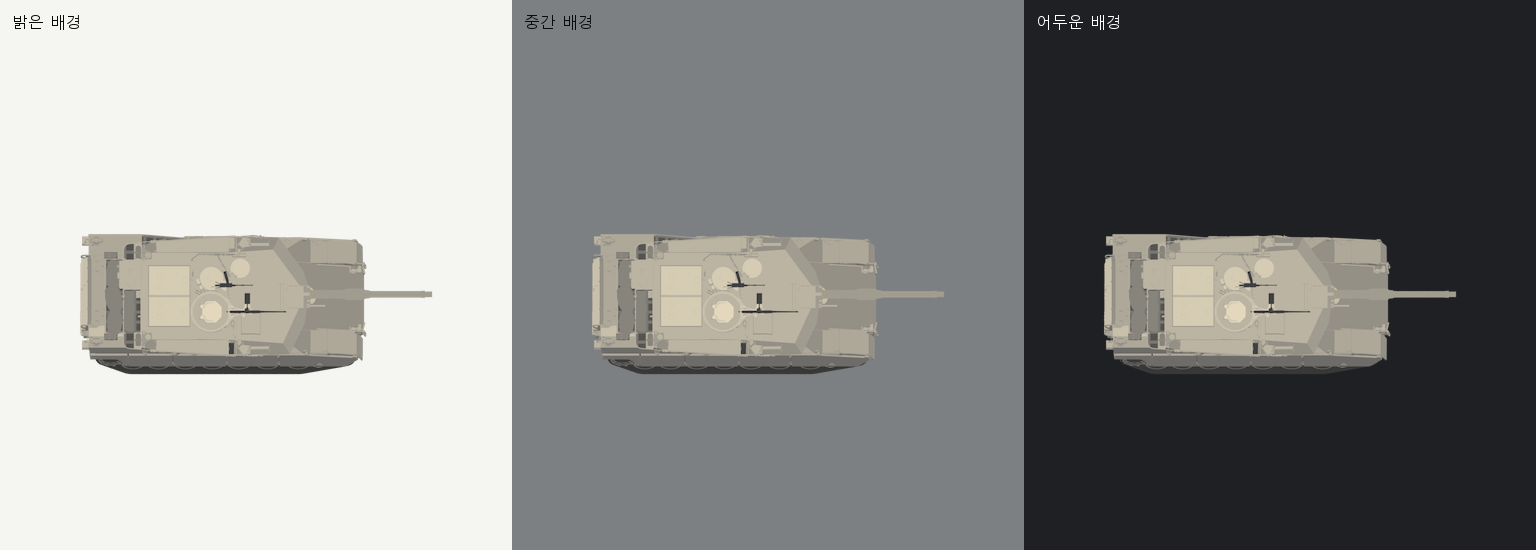
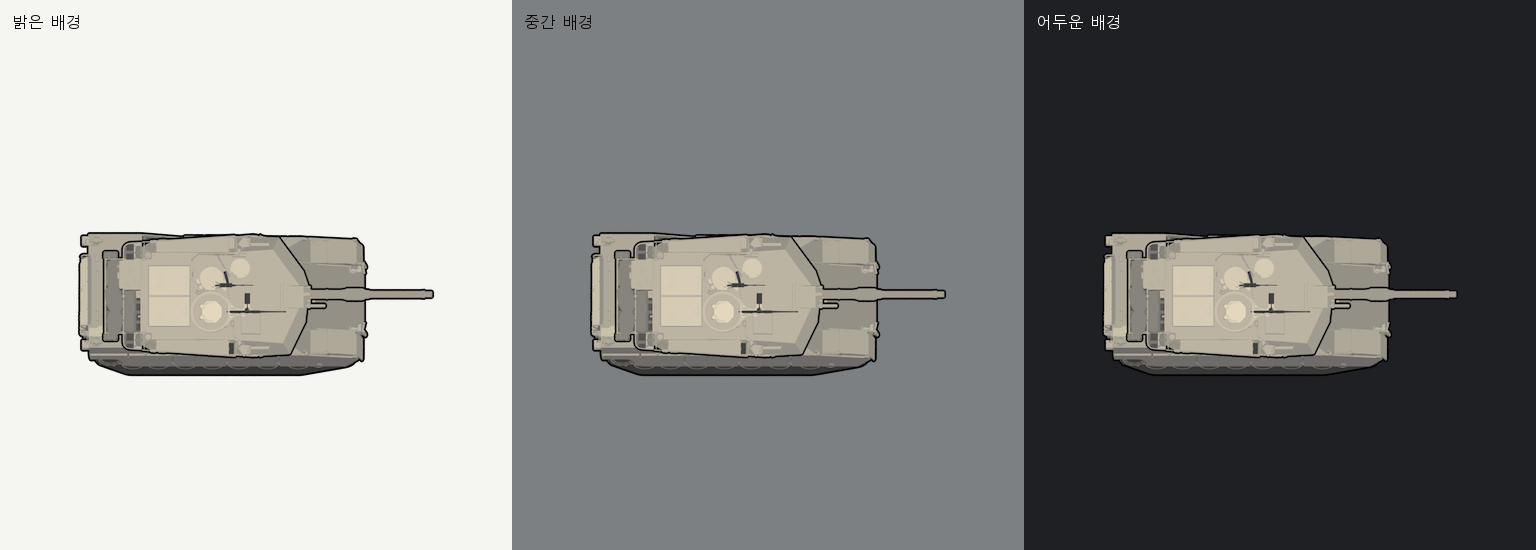
차체와 포탑에 검은 윤곽선을 각각 적용한 M1A2 검수 이미지 추가

diff --git a/ArtSource/VehiclePipeline/outline_review.py b/ArtSource/VehiclePipeline/outline_review.py
@@ -1,0 +1,107 @@
+"""Black per-layer silhouette outlines, applied before hull/turret composition.
+
+This is deterministic review postprocessing. Original model and render layers stay
+unchanged; outline width is defined at 256px and scaled with output resolution.
+"""
+from pathlib import Path
+import argparse
+import math
+import numpy as np
+from PIL import Image, ImageDraw
+
+from pipeline import read_json, write_json, sha256
+from images import composite_linear, resize_linear, check_margin, font
+
+
+def black_outline(source, radius):
+    image = source.convert("RGBA")
+    rgba = np.asarray(image)
+    alpha = rgba[:, :, 3]
+    padding = math.ceil(radius)
+    padded = np.pad(alpha, padding)
+    grown = np.zeros_like(alpha)
+    for dy in range(-padding, padding+1):
+        for dx in range(-padding, padding+1):
+            if dx*dx+dy*dy <= radius*radius:
+                np.maximum(grown, padded[padding+dy:padding+dy+image.height,
+                                         padding+dx:padding+dx+image.width], out=grown)
+    backdrop = np.zeros_like(rgba)
+    backdrop[:, :, 3] = grown
+    result = composite_linear(Image.fromarray(backdrop), image, (0, 0))
+    pixels = np.asarray(result)
+    # The stroke cannot repaint opaque source pixels or introduce colored halos.
+    assert np.array_equal(pixels[alpha == 255], rgba[alpha == 255])
+    assert not pixels[(alpha == 0) & (grown > 0), :3].any()
+    assert np.all(pixels[:, :, 3] >= alpha)
+    return result
+
+
+def build_review(profile_path, width_256=1):
+    if not math.isfinite(width_256) or width_256 <= 0:
+        raise ValueError("Outline width must be finite and positive")
+    profile_path = Path(profile_path).resolve()
+    profile = read_json(profile_path)
+    root = profile_path.parent/"output"
+    report = read_json(root/"report.json")
+    if report["profile_sha256"] != sha256(profile_path) or not report.get("postprocess_passed"):
+        raise ValueError("Build the current vehicle profile successfully before outlining its review layers")
+    render = report["render"]
+    master = render["master"]
+    target = root/"OutlinedReview"
+    target.mkdir(exist_ok=True)
+    names = ["hull_east"]
+    if any(p["layer"] in {"turret", "barrel"} and p["id"] in report["paint"] for p in profile["parts"]):
+        names += ["turret_east", "barrel_east", "turret_full_east"]
+    hashes = {name: sha256(root/(name+".png")) for name in names}
+    outlined = {name: black_outline(Image.open(root/(name+".png")), width_256*master/256)
+                for name in names}
+    hull = outlined["hull_east"]
+    anchor = [round(v) for v in render["turret_anchor_pixels_top_origin"]]
+    offset = [v-master//2 for v in anchor]
+    if "turret_full_east" in outlined:
+        turret = outlined["turret_full_east"]
+        box = turret.getchannel("A").getbbox()
+        assert box and box[0]+offset[0] >= 2 and box[1]+offset[1] >= 2
+        assert box[2]+offset[0] <= master-2 and box[3]+offset[1] <= master-2
+        preview = composite_linear(hull, turret, tuple(offset))
+    else:
+        preview = hull.copy()
+    outlined["preview_east"] = preview
+    bounds = {}
+    for size in [master, *render["sizes"]]:
+        directory = target/str(size)
+        directory.mkdir(exist_ok=True)
+        for name, source in outlined.items():
+            image = source if size == master else resize_linear(source, size)
+            bounds[f"{size}/{name}"] = check_margin(image, name)
+            image.save(directory/(name+".png"))
+        write_json(directory/"pivots.json", {"size": [size, size], "turret_top_pivot": [size/2]*2,
+                   "hull_turret_anchor": [v*size/master for v in anchor],
+                   "outline_pixels": width_256*size/256, "stroke": "black, each layer before compositing",
+                   "turret_full_includes_barrel": True})
+    native = Image.new("RGB", (sum(render["sizes"])+16*(len(render["sizes"])+1), max(render["sizes"])+78), (68, 71, 74))
+    draw = ImageDraw.Draw(native)
+    x = 16
+    for size in render["sizes"]:
+        image = Image.open(target/str(size)/"preview_east.png")
+        native.paste(image, (x, 42), image)
+        draw.text((x, 12), f"{size}px / 검은 윤곽선 {width_256*size/256:g}px", font=font(), fill="white")
+        x += size+16
+    native.save(target/"native_sizes.png")
+    assert hashes == {name: sha256(root/(name+".png")) for name in names}
+    write_json(target/"report.json", {"source_report_sha256": sha256(root/"report.json"),
+               "source_layer_sha256": hashes, "outline_width_at_256": width_256,
+               "color": [0, 0, 0], "method": "circular alpha dilation; black beneath each original layer",
+               "composition": "outline hull and full turret separately, then composite at original pivot",
+               "source_pixels_opaque_unchanged": True, "source_files_unchanged": True,
+               "alpha_bounds": bounds, "outline_is_review_postprocess": True})
+    print(f"Outlined review saved: {target}")
+    return target
+
+
+if __name__ == "__main__":
+    parser = argparse.ArgumentParser(description=__doc__)
+    parser.add_argument("profile")
+    parser.add_argument("--width-256", type=float, default=1)
+    args = parser.parse_args()
+    build_review(args.profile, args.width_256)

diff --git a/ArtSource/M1A2Abrams/package_trial.py b/ArtSource/M1A2Abrams/package_trial.py
@@ -8,6 +8,7 @@ ROOT = Path(__file__).resolve().parent
 sys.path.insert(0, str(ROOT.parent/"VehiclePipeline"))
 from images import font
 from pipeline import read_json, write_json
+from outline_review import build_review
 
 
 def trim(image):
@@ -25,6 +26,7 @@ def fit_width(image, width):
 def main():
     profile = read_json(ROOT/"vehicle.json")
     output = ROOT/"output"
+    outlined = build_review(ROOT/"vehicle.json")
     reference = Path(profile["style_references"]["rimthunder"])
     board = Image.new("RGB", (1040, 840), (65, 68, 71))
     draw = ImageDraw.Draw(board)
@@ -32,8 +34,8 @@ def main():
     for x, title, hull, turret in [
         (20, "RimThunder (원본 무채색 텍스처)", Image.open(reference/"vehicle_east.png"),
          Image.open(reference/"vehicle_turret.png").rotate(-90, expand=True)),
-        (540, "OBJ 기반 / 고정 Emission / TAN", Image.open(output/"hull_east.png"),
-         Image.open(output/"turret_east.png"))]:
+        (540, "OBJ 기반 / TAN + 검은 윤곽선", Image.open(outlined/"1024/hull_east.png"),
+         Image.open(outlined/"1024/turret_east.png"))]:
         draw.text((x, 58), title, font=font(), fill="white")
         hull = fit_width(hull, 460)
         turret = fit_width(turret, 360)
@@ -42,7 +44,7 @@ def main():
     draw.text((20, 760), "차체 외피 폭 460px / 포탑 외피 길이 360px로 각각 정렬한 검수용 비교", font=font(), fill="white")
     draw.text((20, 790), "직접 텍스처 복사 없음 · 청사진 미제공 · 피벗 일부 임시 · 게임 검수 미실시", font=font(), fill=(215, 215, 215))
     board.save(output/"style_comparison.png")
-    sprite = Image.open(output/"512/preview_east.png").convert("RGBA")
+    sprite = Image.open(outlined/"512/preview_east.png").convert("RGBA")
     backgrounds = Image.new("RGB", (3*512, 550))
     draw = ImageDraw.Draw(backgrounds)
     for i, (color, title) in enumerate([((245, 245, 242), "밝은 배경"), ((125, 128, 130), "중간 배경"), ((30, 32, 35), "어두운 배경")]):
@@ -58,8 +60,15 @@ def main():
     report["trial_review"] = {"native_sizes": [256, 512], "reference_comparison": "style_comparison.png",
                               "alpha_review": "alpha_backgrounds.png", "transparent_rgb_zero": True,
                               "blueprint": "not supplied", "game": "not tested",
+                              "outline": {"path": "OutlinedReview", "width_at_256": 1,
+                                          "method": "black hull and full-turret outlines before compositing"},
                               "note": "First art trial; source detail density and local surface paint remain refinable"}
     write_json(output/"report.json", report)
+    # Record the final report hash after adding review metadata, avoiding a stale pointer.
+    from pipeline import sha256
+    outline_report = read_json(outlined/"report.json")
+    outline_report["source_report_sha256"] = sha256(output/"report.json")
+    write_json(outlined/"report.json", outline_report)
     print("Comparison and alpha-background review images saved")
 
 

diff --git a/ArtSource/VehiclePipeline/README.md b/ArtSource/VehiclePipeline/README.md
@@ -119,7 +119,9 @@ python ArtSource/VehiclePipeline/pipeline.py components ArtSource/NewVehicle/veh
 | `preview_east.png`, `256/`, `512/`, `pivots.json` | 정수 앵커 합성 미리보기, 선형광·알파 선곱 Lanczos 축소, 레이어 정렬 |
 | `review_sheet.png`, `native_sizes.png`, `report.json` | 청사진 비교판·실제 크기·기계 검증과 미확인 항목 |
 
-`turret_full_east`에는 포신도 포함한다. 이것을 합성할 때 포신 레이어를 다시 올리지 않는다. 모든 레이어는 공통 스케일을 쓰며 임의로 trim하지 않는다. 포탑 피벗이 없으면 임시 중심으로 초안을 만들고 blocker로 보고한다. 포탑/차체 외곽선 후처리와 추가 장비 전용 독립 스프라이트, 게임 XML 연결은 이 공통 빌더에 아직 포함하지 않는다.
+`turret_full_east`에는 포신도 포함한다. 이것을 합성할 때 포신 레이어를 다시 올리지 않는다. 모든 레이어는 공통 스케일을 쓰며 임의로 trim하지 않는다. 포탑 피벗이 없으면 임시 중심으로 초안을 만들고 blocker로 보고한다. 추가 장비 전용 독립 스프라이트와 게임 XML 연결은 이 공통 빌더에 아직 포함하지 않는다.
+
+검수할 때는 `python ArtSource/VehiclePipeline/outline_review.py ArtSource/NewVehicle/vehicle.json`을 실행한다. 차체/포탑의 검은 윤곽선을 **각 레이어에 먼저 적용하고 원래 피벗으로 합성**해 `output/OutlinedReview/`에 저장한다. 256px에서 1px, 512px에서 2px가 기본이며 `--width-256`으로 조절한다. 원본 불투명 픽셀의 색·원본 레이어 파일 불변과 여백을 검사한다. 검수용 PNG 후처리이므로 GLB/BLEND에는 윤곽선이 들어가지 않는다.
 
 `report.status == reviewed`도 사용자의 아트 승인 인증은 아니다. 작성자가 실제 검수한 플래그가 모두 채워진 상태다. `postprocess_passed`도 함께 확인한다. 게임 미검수는 draft와 blocker로 남긴다. 자동 검사는 원본 좌표·면 보존과 조명 불변 등을 검사하며, 원본에 이미 있던 모든 self-intersection·뒤집힌 면·개구부를 자동 진단하거나 수리하지 않는다. 원본의 퇴화 면은 위치와 함께 보고한다. OBJ의 선/점/곡면 객체는 조용히 버리지 않고 mesh 변환을 요구한다.
 

diff --git a/ArtSource/M1A2Abrams/README.md b/ArtSource/M1A2Abrams/README.md
@@ -10,6 +10,7 @@
 - `output/native_sizes.png`: 256/512 실제 크기.
 - `output/style_comparison.png`: 설치된 RimThunder M1A2와 외피 폭을 맞춘 비교.
 - `output/alpha_backgrounds.png`: 밝은/중간/어두운 배경 검사.
+- `output/OutlinedReview/`: 차체·포탑에 각각 검은 윤곽선을 적용한 검수 레이어와 합성. `512/preview_east.png`, `native_sizes.png`로 확인한다. 기본 두께는 256px 1px / 512px 2px다. 비교판과 배경 검수도 이 버전을 사용한다.
 - `output/report.json`, `mapping_report.json`: 면 출처·채색·피벗·미검수 항목.
 
 포탑 전체 레이어에는 포신도 들어 있다. 이 레이어를 사용할 때 포신을 다시 올리지 않는다. 게임 정의/XML 연결과 게임 내 표시는 아직 검증하지 않았다.
@@ -46,4 +47,4 @@ python ArtSource/M1A2Abrams/package_trial.py
 
 원본 좌표·면 출처, 조명 변경 픽셀 차이 0/255, 실제 상향 면의 직접 겹침 명도 간격 24/36, 퇴화 면 없음, GLB unlit 및 격자 texture/UV 유지, 포탑 animation 1개, 투명 여백·선형광 축소를 확인했다. 공통 검사 7개와 청사진 포함 기존 fixture도 통과했다.
 
-실제 크기와 세 배경을 시각 확인했다. 현재는 일부 얇은 바구니 레일·볼트·기관총 잔선이 256px에서 약하며, 원본 디테일을 넓은 판과 굵은 대표 부품으로 재설계하는 단계는 진행하지 않았다. 포탑 외곽선 후처리도 아직 없다. 이 차이와 미확인 피벗·청사진·게임 검증은 draft/blocker로 남겼다. 첫 시험 렌더를 보고 다음 수정 범위를 정할 수 있다.
+실제 크기와 세 배경을 시각 확인했다. 현재는 일부 얇은 바구니 레일·볼트·기관총 잔선이 256px에서 약하며, 원본 디테일을 넓은 판과 굵은 대표 부품으로 재설계하는 단계는 진행하지 않았다. 검수용 검은 윤곽선은 차체와 포탑에 각각 적용한 뒤 합성한다. 내부 불투명 색·원본 레이어·모델·정렬은 보존하며, 마스터에서 윤곽선을 추가한 뒤 같은 선형광 축소를 사용한다. 남은 디테일 차이와 미확인 피벗·청사진·게임 검증은 draft/blocker로 남겼다.

diff --git a/ArtSource/AGENTS.md b/ArtSource/AGENTS.md
@@ -22,6 +22,7 @@
 - 같은 차량의 RimThunder 레퍼런스가 있으면 부품 대응을 확인하고 실제 겹침 관계를 지키면서 재질·명도 관계를 맞춘다. 해치 손잡이와 뒤쪽 힌지처럼 인접한 다른 부품을 혼동하지 않는다.
 - 반복 채색은 문제 부위의 표면 유형을 먼저 정하고, 회차마다 그 유형에 필요한 변수만 바꾼다. 이전 결과·변경 이유·수정 범위를 기록하고 다른 부위의 승인된 표현은 유지한다.
 - 같은 차량 화면 크기로 레퍼런스와 256px/512px 결과를 비교한다. 캔버스 크기가 같다는 이유만으로 동일 스케일이라고 판단하지 않는다.
+- 검수용 이미지에는 차체와 포탑을 각각 검은 윤곽선으로 처리한 뒤 원래 피벗으로 합성한다. 기본 두께는 256px에서 1px, 512px에서 2px다. `VehiclePipeline/outline_review.py`를 사용하고 원본 모델/무윤곽 렌더와 검수용 후처리를 구분해 보존한다. 합성 완료 이미지의 바깥 테두리만 두르는 것으로 대신하지 않는다.
 - 원본 계층, 포탑·포신·문 피벗, 투명 배경, 그림자 없음, 일관된 투영을 유지한다.
 - 작업 완료 시 모델 검증과 실제 크기 시각 검수 결과, 남은 차이 및 미실시한 게임 내 검증을 구분해 기록한다.
 

diff --git a/ArtSource/VEHICLE_ART_STYLE.md b/ArtSource/VEHICLE_ART_STYLE.md
@@ -136,6 +136,7 @@ Steam 기본 위치는 `C:/Program Files (x86)/Steam/steamapps/workshop/content/
 - 앞 방향은 로컬 -Y, 위는 +Z. 다른 원본 축은 가져올 때 변환하고 변환 내역을 기록한다.
 - 포탑 회전, 포신 상하, 후방 램프, 출입문은 독립 피벗/계층을 유지한다.
 - 해상도마다 차체의 포탑 앵커와 포탑 중앙 피벗을 기록한다. 임의로 각 레이어를 잘라 정렬을 바꾸지 않는다.
+- 검수 화면은 차체·포탑에 각각 검은 윤곽선을 적용한 뒤 합성한다. 기본은 256px에서 1px, 512px에서 2px이며 마스터에서 처리한 뒤 같은 선형광 축소를 사용한다. 모델 재질·내부 면색을 바꾸지 않고 검수용 후처리 결과를 별도로 저장한다. 포탑 전체에 포신이 포함돼 있으면 포신을 중복 합성하지 않는다.
 - 차량이 달라도 카메라 각도·면 표현·패딩 규칙을 유지한다. 월드 크기에 따른 화면 크기는 따로 관리한다.
 - ERA 등 선택 장비는 기본형과 분리한다. 요청이 없으면 기본형에 추가하지 않는다.
 

diff --git a/ArtSource/M1A2Abrams/ART_BRIEF.md b/ArtSource/M1A2Abrams/ART_BRIEF.md
@@ -38,6 +38,7 @@
 1. 공통 프리셋과 원본 이름/재질/부품 bounds로 역할 매핑. 전체 모델 보존 렌더 확인.
 2. 얕은 전면 경사가 지붕과 같은 색으로 합쳐지는 문제를 확인. 원본 차체 외피 성분 안의 면 집합만 추출해 보정. 그릴 재질은 평면별로 나눠 격자 처리. 다른 원본 좌표는 유지.
 3. RimThunder와 같은 차체 외피 폭 460px/포탑 외피 길이 360px 비교, 256/512 실제 크기와 세 배경 확인.
+4. 검수할 때 차체와 포탑에 각각 검은 윤곽선을 넣어 합성하도록 사용자 보정 반영. 256px 1px / 512px 2px, 원본 피벗 유지. `output/OutlinedReview/`와 비교판을 갱신하고 내부 불투명 색·원본 렌더 불변·투명 여백을 검사. 모델 재질은 변경하지 않음.
 
 ## 검수
 
